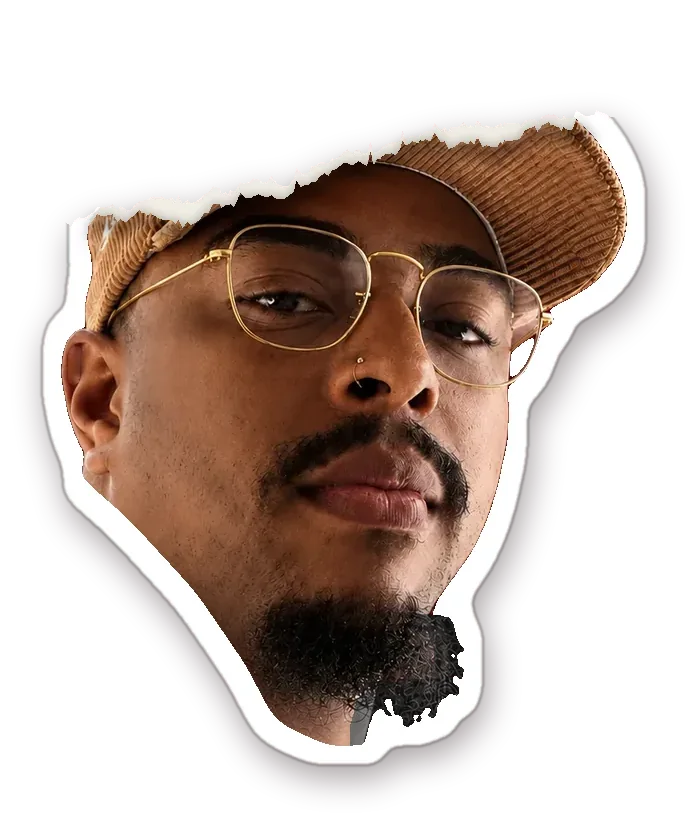
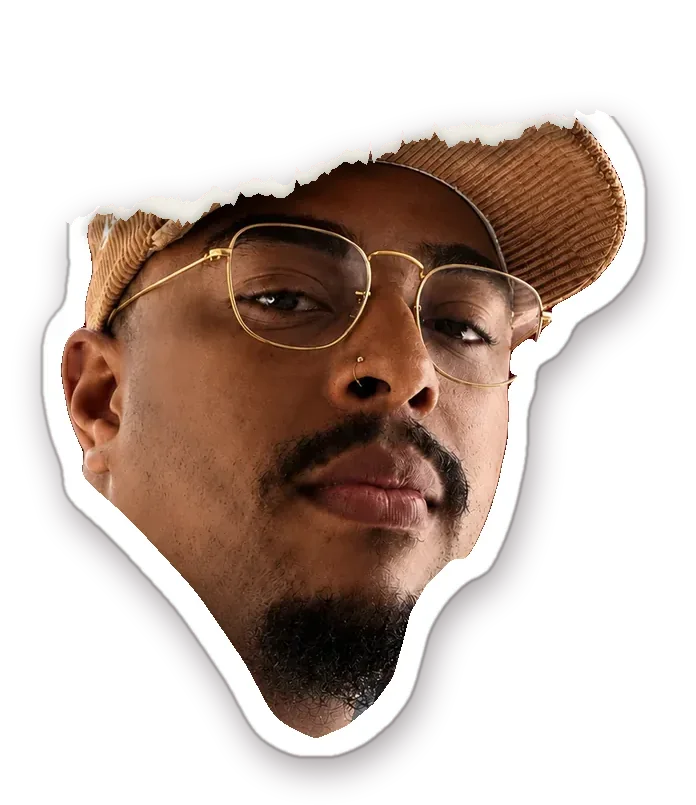
Centre the hero copy on the portrait, clean up the chin, drop the job timeline
The hero copy now sits level with the portrait at every screen size and
scales down on short screens so the Let's talk link is never cut off.
The stray beard edge under the chin is trimmed to a clean sticker
outline, and the three-job timeline is removed from About.

Claude-Session: https://claude.ai/code/session_01RGXm2qui5F1c798xJE6Kaf

diff --git a/site/index.html b/site/index.html
@@ -1181,10 +1181,10 @@ button.ccopy { border: 0; cursor: pointer; font: inherit; }
 .cstrip .marquee { margin-top: 22px; border-block: 1px solid var(--line-2); }
 
 /* ---------- hero image: torn sticker head with design tools bursting out (after trevornoah.com) ---------- */
-.hz-frame .tn-head { --hw: min(33vw, 52svh); position: absolute; z-index: 1; left: 50%; top: calc(71svh - var(--hw) * 1.075); width: var(--hw); aspect-ratio: 696 / 813; transform: translateX(-50%) scale(var(--hz-s, 1)); transform-origin: 50% 45%; }
+.hz-frame .tn-head { --hw: min(33vw, 52svh); position: absolute; z-index: 1; left: 50%; top: calc(71svh - var(--hw) * 1.075); width: var(--hw); aspect-ratio: 696 / 805; transform: translateX(-50%) scale(var(--hz-s, 1)); transform-origin: 50% 45%; }
 .tn-clip { position: absolute; inset: 0; }
 .tn-clip > img { position: absolute; inset: 0; width: 100%; height: 100%; pointer-events: none; }
-.tn-clip > .tn-eyes { inset: auto; left: 24.43%; top: 27.06%; width: 56.03%; height: auto; opacity: var(--tn-eye, 0); }
+.tn-clip > .tn-eyes { inset: auto; left: 24.43%; top: 27.33%; width: 56.03%; height: auto; opacity: var(--tn-eye, 0); }
 .tn-roll { position: absolute; inset: 0; width: 100%; height: 100%; pointer-events: none; }
 .tn-par { display: block; transform: translate(var(--mx, 0px), var(--my, 0px)) rotate(var(--mr, 0deg)); transform-origin: 50% 90%; transition: scale .55s var(--spring), translate .55s var(--spring), filter .4s; }
 a.tn-obj { cursor: pointer; min-width: 44px; } span.tn-obj { pointer-events: none; }
@@ -1207,12 +1207,12 @@ html:not(.js-in) .tn-topp { display: none; }
 @media (min-width: 701px) { .hz-frame .tn-head { --hw: min(40vw, 62svh); left: 69%; top: calc(53svh - var(--hw) * .5); } }
 @media (max-width: 700px) { .hz-frame .tn-head { --hw: min(80vw, 44svh); top: max(104px, calc(35svh - var(--hw) * .62)); } }
 /* hero copy: left column */
-.hz-copy { position: absolute; z-index: 3; left: var(--gutter-l); top: 47%; width: min(50vw, 700px); transform: translateY(-50%) translateY(var(--hz-y, 0px)); opacity: var(--hz-o, 1); }
+.hz-copy { position: absolute; z-index: 3; left: var(--gutter-l); top: 53svh; width: min(50vw, 700px); transform: translateY(-50%) translateY(var(--hz-y, 0px)); opacity: var(--hz-o, 1); }
 .js-in .hz-copy.hin { transition: opacity 1s var(--ease) .9s, transform 1.2s var(--ease) .9s; }
 .js-in:not(.go) .hz-copy.hin { opacity: 0; transform: translateY(-50%) translateY(28px); }
-.js-in.go .hz-copy.hin { transition: opacity .2s linear, transform .2s linear; }
+.js-in.go .hz-copy.hin { opacity: var(--hz-o, 1); transform: translateY(-50%) translateY(var(--hz-y, 0px)); transition: opacity .2s linear, transform .2s linear; }
 .hero .hz-copy .hz-h { position: static; inset: auto; transform: none !important; opacity: 1 !important; width: auto; max-width: none; text-align: left; margin: 0;
-  font-family: var(--head, var(--display)); font-weight: 800; font-variation-settings: "wdth" 100; font-size: clamp(50px, 5.6vw, 100px); line-height: .9; letter-spacing: -.038em; color: #F1E9DC; text-wrap: initial; white-space: normal; }
+  font-family: var(--head, var(--display)); font-weight: 800; font-variation-settings: "wdth" 100; font-size: clamp(40px, min(5.6vw, 9.6svh), 100px); line-height: .9; letter-spacing: -.038em; color: #F1E9DC; text-wrap: initial; white-space: normal; }
 .hero .hz-copy .hz-h em { display: block; white-space: nowrap; font-style: normal; padding-bottom: .06em; color: #D9B25C;
   background: linear-gradient(100deg, #F7DE95 0%, #D9B25C 38%, #B8862E 72%, #E9C56C 100%); -webkit-background-clip: text; background-clip: text; -webkit-text-fill-color: transparent; }
 .hz-eb { display: flex; align-items: center; gap: 12px; margin-bottom: clamp(18px, 2.6vh, 28px); font-family: var(--mono); font-size: 12.5px; font-weight: 600; letter-spacing: .2em; text-transform: uppercase; color: #F0D58E; }
@@ -1223,6 +1223,7 @@ html:not(.js-in) .tn-topp { display: none; }
 @media (max-width: 700px) {
   .hz-copy { top: auto; bottom: 30px; right: var(--gutter-r); width: auto; transform: translateY(var(--hz-y, 0px)); }
   .js-in:not(.go) .hz-copy.hin { transform: translateY(28px); }
+  .js-in.go .hz-copy.hin { transform: translateY(var(--hz-y, 0px)); }
   .hero .hz-copy .hz-h { font-size: clamp(40px, 11.4vw, 54px); }
   .hz-eb { font-size: 10.5px; letter-spacing: .16em; margin-bottom: 12px; } .hz-eb::before { width: 18px; }
   .hz-lede { font-size: 15px; margin-top: 14px; } .hz-acts { margin-top: 18px; gap: 10px 20px; } .hz-acts .btn { min-height: 48px; padding: 0 20px; }
@@ -1233,7 +1234,7 @@ html:not(.js-in) .tn-topp { display: none; }
 .over-hero .hcases { color: rgba(241,233,220,.86); box-shadow: inset 0 0 0 1px rgba(241,233,220,.3); }
 .hcases .lbs { display: none; }
 @media (max-width: 700px) { .hcases { padding: 0 12px; font-size: 10.5px; letter-spacing: .12em; margin-right: 4px; } .hcases .lbl { display: none; } .hcases .lbs { display: inline; } }
-@media (min-width: 701px) and (max-width: 1100px) { .hz-frame .tn-head { --hw: min(38vw, 54svh); left: 77%; } .hz-copy { width: 50vw; } .hero .hz-copy .hz-h { font-size: clamp(40px, 5.2vw, 60px); } .hz-lede { max-width: 28ch; } }
+@media (min-width: 701px) and (max-width: 1100px) { .hz-frame .tn-head { --hw: min(38vw, 54svh); left: 77%; } .hz-copy { width: 50vw; } .hero .hz-copy .hz-h { font-size: clamp(36px, min(5.2vw, 9svh), 60px); } .hz-lede { max-width: 28ch; } }
 @media (max-width: 700px) and (max-height: 760px) { .hz-frame .tn-head { --hw: min(70vw, 40svh); top: 100px; } .hz-lede { display: none; } }
 /* header on the content grid; logo lifted off dark backgrounds */
 .top .tl a:first-child { padding-left: 0; }
@@ -1294,9 +1295,9 @@ html:not(.js-in) .tn-topp { display: none; }
           <a class="tn-obj o-cursor" href="#words" data-d="1.2" data-tip="Kind words" aria-label="Kind words" style="--x:65;--w:19;--b:25;--r:-8deg;--i:6"><span class="tn-par"><img src="img/tn_cursor.webp" alt="" decoding="async"></span></a>
           <a class="tn-obj o-coin" href="#clients" data-d="1.1" data-tip="Clients" aria-label="Clients" style="--x:79;--w:19;--b:21;--r:-12deg;--i:7"><span class="tn-par"><img src="img/tn_coin.webp" alt="" decoding="async"></span></a>
         </nav>
-        <img class="tn-bot" src="img/tn_head.webp" alt="Alfonzo Louw as a torn paper sticker, with design tools bursting out of his cap" width="696" height="813" fetchpriority="high">
+        <img class="tn-bot" src="img/tn_head.webp" alt="Alfonzo Louw as a torn paper sticker, with design tools bursting out of his cap" width="696" height="805" fetchpriority="high">
         <img class="tn-eyes" src="img/tn_eyes.webp" alt="" width="390" height="200" decoding="async">
-        <img class="tn-topp" src="img/tn_top.webp" alt="" width="696" height="813">
+        <img class="tn-topp" src="img/tn_top.webp" alt="" width="696" height="805">
         </div>
         <canvas class="tn-roll" aria-hidden="true"></canvas>
       </div>
@@ -1319,11 +1320,6 @@ html:not(.js-in) .tn-topp { display: none; }
         <span class="mono g">About</span>
         <p class="big">Designing for impact. <em>Building for scale.</em></p>
         <p class="rk-lead">From broadcast animation to CX and consulting, I now design financial products, weighing the business, the user and the build at once. Based in Johannesburg, working across Africa.</p>
-        <ol class="rk-time" aria-label="Experience">
-          <li><span class="mono">2026 to now</span><b>Human Insights</b><em>Senior Product Designer</em></li>
-          <li><span class="mono">2025 to 2026</span><b>Warp</b><em>Product Designer</em></li>
-          <li><span class="mono">Until 2025</span><b>FNB</b><em>Senior Product Designer</em></li>
-        </ol>
       </div>
       <div class="stage" id="stage">
         <div class="gw" id="rkCard">
